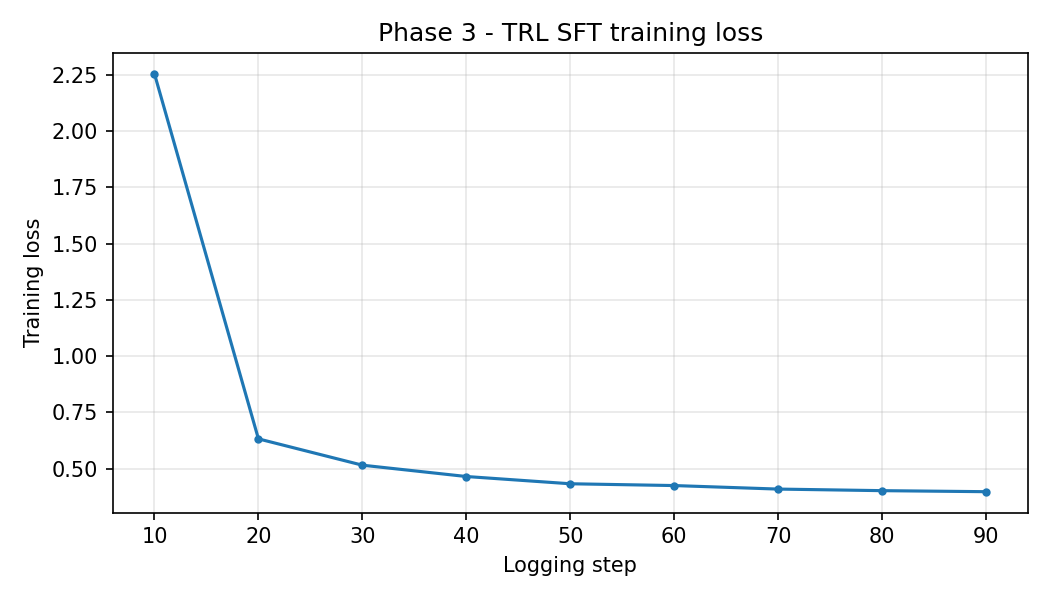
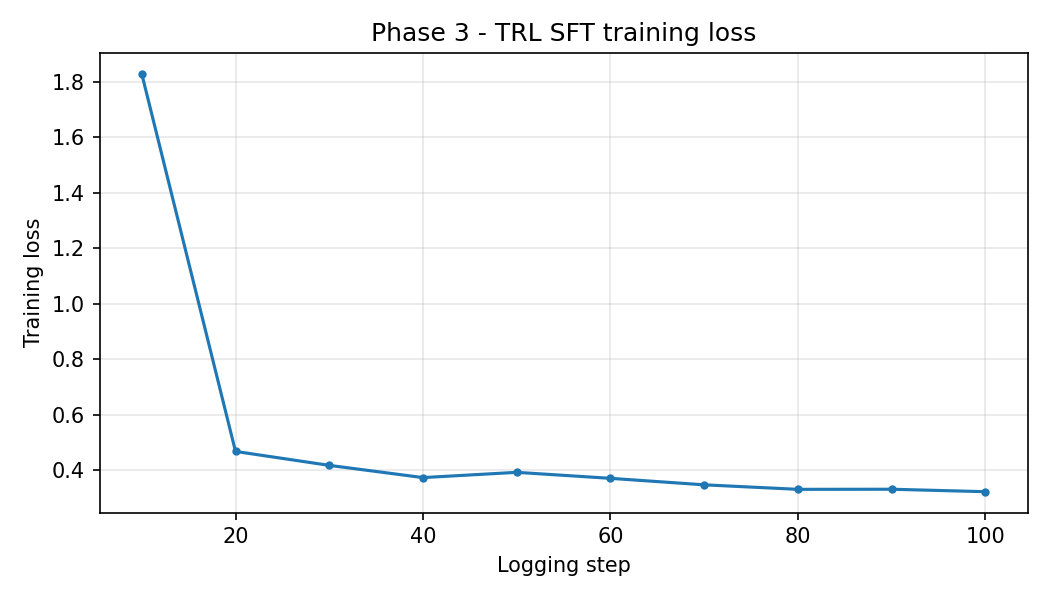
Phase 3: local Qwen 0.5B SFT + eval artefacts and tooling fixes
- Collected 5850-row SFT JSONL locally; trained Qwen2.5-0.5B-Instruct for 1 epoch
  on a 400-row CPU subset (~11 min) into results/phase3_lora/checkpoint-100.
- eval_llm_on_env: --local in-process env; auto-resolve output-dir to latest
  checkpoint-*; README documents --local, sentencepiece, and path resolution.
- trl_sft_train: read JSONL as utf-8-sig (no BOM surprises).
- requirements-trl: add sentencepiece for Qwen tokenizer loads.
- .gitignore: trl_sft_train_cpu.jsonl; track phase3_eval_metrics.md and
  phase3_eval_bar.png; refresh trl_sft_loss.png from this run.

Full-dataset SFT remains best on Colab GPU (see Phase 1 notebook).

Made-with: Cursor

diff --git a/scripts/eval_llm_on_env.py b/scripts/eval_llm_on_env.py
@@ -25,7 +25,9 @@ Notes:
     - Reuses ``build_user_prompt`` so eval prompts match the training prompts.
     - Loads models sequentially (``del`` + ``torch.cuda.empty_cache()`` between)
       so several models fit on a single Colab T4.
-    - HTTP-only env client; honour ``SPACE_URL`` to point at the live Space.
+    - HTTP client by default; honour ``SPACE_URL`` for the live Space.
+    - ``--local`` uses the in-process ``TradingEnvironment`` (same physics as
+      ``collect_sft_dataset --local``; no server required).
 """
 
 from __future__ import annotations
@@ -35,6 +37,7 @@ import os
 import statistics
 import sys
 from collections import Counter, deque
+from typing import Any, Protocol
 
 # Windows: TRL/transformers read bundled Jinja templates as UTF-8.
 os.environ.setdefault("PYTHONUTF8", "1")
@@ -47,6 +50,56 @@ from client import TradingEnv
 from trl_data.eval_utils import format_metrics_md, parse_action, parse_models
 from trl_data.prompt_utils import build_user_prompt
 from trl_data.teacher import TEACHERS, get_teacher
+
+
+class _EnvLike(Protocol):
+    def reset(self, task_name: str | None = None, **kwargs: Any) -> Any: ...
+    def step(self, action: int, amount: float = 1.0) -> Any: ...
+
+
+def _resolve_hf_model_path(ident: str) -> str:
+    """
+    If ``ident`` is an output directory without ``config.json`` at the root
+    (e.g. ``results/phase3_lora`` after TRL saves only ``checkpoint-*``),
+    pick the lexically greatest ``checkpoint-*`` subfolder so users can pass
+    the parent ``--output-dir`` from training.
+    """
+    if not ident or not os.path.isdir(ident):
+        return ident
+    root_cfg = os.path.join(ident, "config.json")
+    if os.path.isfile(root_cfg):
+        return ident
+    candidates: list[tuple[int, str]] = []
+    try:
+        for name in os.listdir(ident):
+            if name.startswith("checkpoint-") and name[len("checkpoint-") :].isdigit():
+                step = int(name.split("-", 1)[1])
+                sub = os.path.join(ident, name)
+                if os.path.isfile(os.path.join(sub, "config.json")):
+                    candidates.append((step, sub))
+    except OSError:
+        return ident
+    if not candidates:
+        return ident
+    candidates.sort(key=lambda x: x[0])
+    return candidates[-1][1]
+
+
+class _LocalTradingEnvGym:
+    """Same reset/step contract as ``client.TradingEnv`` but in-process."""
+
+    def __init__(self) -> None:
+        from models import TradingAction
+        from server.trading_environment import TradingEnvironment
+
+        self._TradingAction = TradingAction
+        self._env = TradingEnvironment(window=20, random_episode_start=True, seed=42)
+
+    def reset(self, task_name: str | None = None, **kwargs: Any):
+        return self._env.reset(task_name=task_name)
+
+    def step(self, action: int, amount: float = 1.0):
+        return self._env.step(self._TradingAction(action=action, amount=amount))
 
 
 def _build_arg_parser() -> argparse.ArgumentParser:
@@ -95,13 +148,18 @@ def _build_arg_parser() -> argparse.ArgumentParser:
     )
     p.add_argument("--metrics-out", type=str, default=os.path.join("results", "phase3_eval_metrics.md"))
     p.add_argument("--bar-out", type=str, default=os.path.join("results", "phase3_eval_bar.png"))
+    p.add_argument(
+        "--local",
+        action="store_true",
+        help="Use in-process TradingEnvironment (dev); omit for HTTP + SPACE_URL.",
+    )
     return p
 
 
 def _run_episodes(
     model,
     tokenizer,
-    env: TradingEnv,
+    env: _EnvLike,
     *,
     episodes: int,
     max_steps: int,
@@ -216,14 +274,20 @@ def main() -> None:
     device = "cuda" if torch.cuda.is_available() else "cpu"
     dtype = torch.float16 if device == "cuda" else torch.float32
 
-    env = TradingEnv()
+    if args.local:
+        env: _EnvLike = _LocalTradingEnvGym()
+        env_desc = "local TradingEnvironment(seed=42)"
+    else:
+        env = TradingEnv()
+        env_desc = f"HTTP base_url={env.base_url}"
     print(
-        f"env base_url={env.base_url} device={device} models={list(models)} "
+        f"env {env_desc} device={device} models={list(models)} "
         f"prompt={args.prompt} task={args.task_name}"
     )
 
     rows = []
     for name, ident in models.items():
+        ident = _resolve_hf_model_path(ident)
         print(f"\n=== {name} ({ident}) ===")
         tokenizer = AutoTokenizer.from_pretrained(ident, trust_remote_code=True)
         if tokenizer.pad_token_id is None:

diff --git a/scripts/trl_sft_train.py b/scripts/trl_sft_train.py
@@ -95,7 +95,7 @@ def main() -> None:
         sys.exit(1)
 
     rows: list = []
-    with open(args.data, encoding="utf-8") as f:
+    with open(args.data, encoding="utf-8-sig") as f:
         for line in f:
             line = line.strip()
             if not line:

diff --git a/README.md b/README.md
@@ -142,6 +142,8 @@ python scripts/eval_llm_on_env.py \
   --episodes 10 --max-steps 300 --task-name risk_aware_trading
 ```
 
+If TRL saved only `results/phase3_lora/checkpoint-*`, you can still pass `sft=results/phase3_lora` — the eval script resolves the latest checkpoint folder. For dev without a running Space, add **`--local`** (same physics as `collect_sft_dataset --local`). Qwen tokenizers need **`sentencepiece`** (listed in `requirements-trl.txt`).
+
 **Track-H (richer prompt + bigger model, optional, paid Colab):**
 
 ```bash

diff --git a/results/phase3_eval_metrics.md b/results/phase3_eval_metrics.md
@@ -1,0 +1,8 @@
+# Phase 3 - LLM on env evaluation
+
+task=risk_aware_trading prompt=compact teacher=sma20 episodes=3
+
+| Model | Mean episode reward | Std | Last final PV | HOLD | BUY | SELL | Teacher agreement |
+|---|---:|---:|---:|---:|---:|---:|---:|
+| base | -0.324662 | 0.542586 | 8840.13 | 99.6% | 0.4% | 0.0% | 0.196 |
+| sft | 0.189311 | 0.989850 | 10363.94 | 0.0% | 100.0% | 0.0% | 0.596 |
